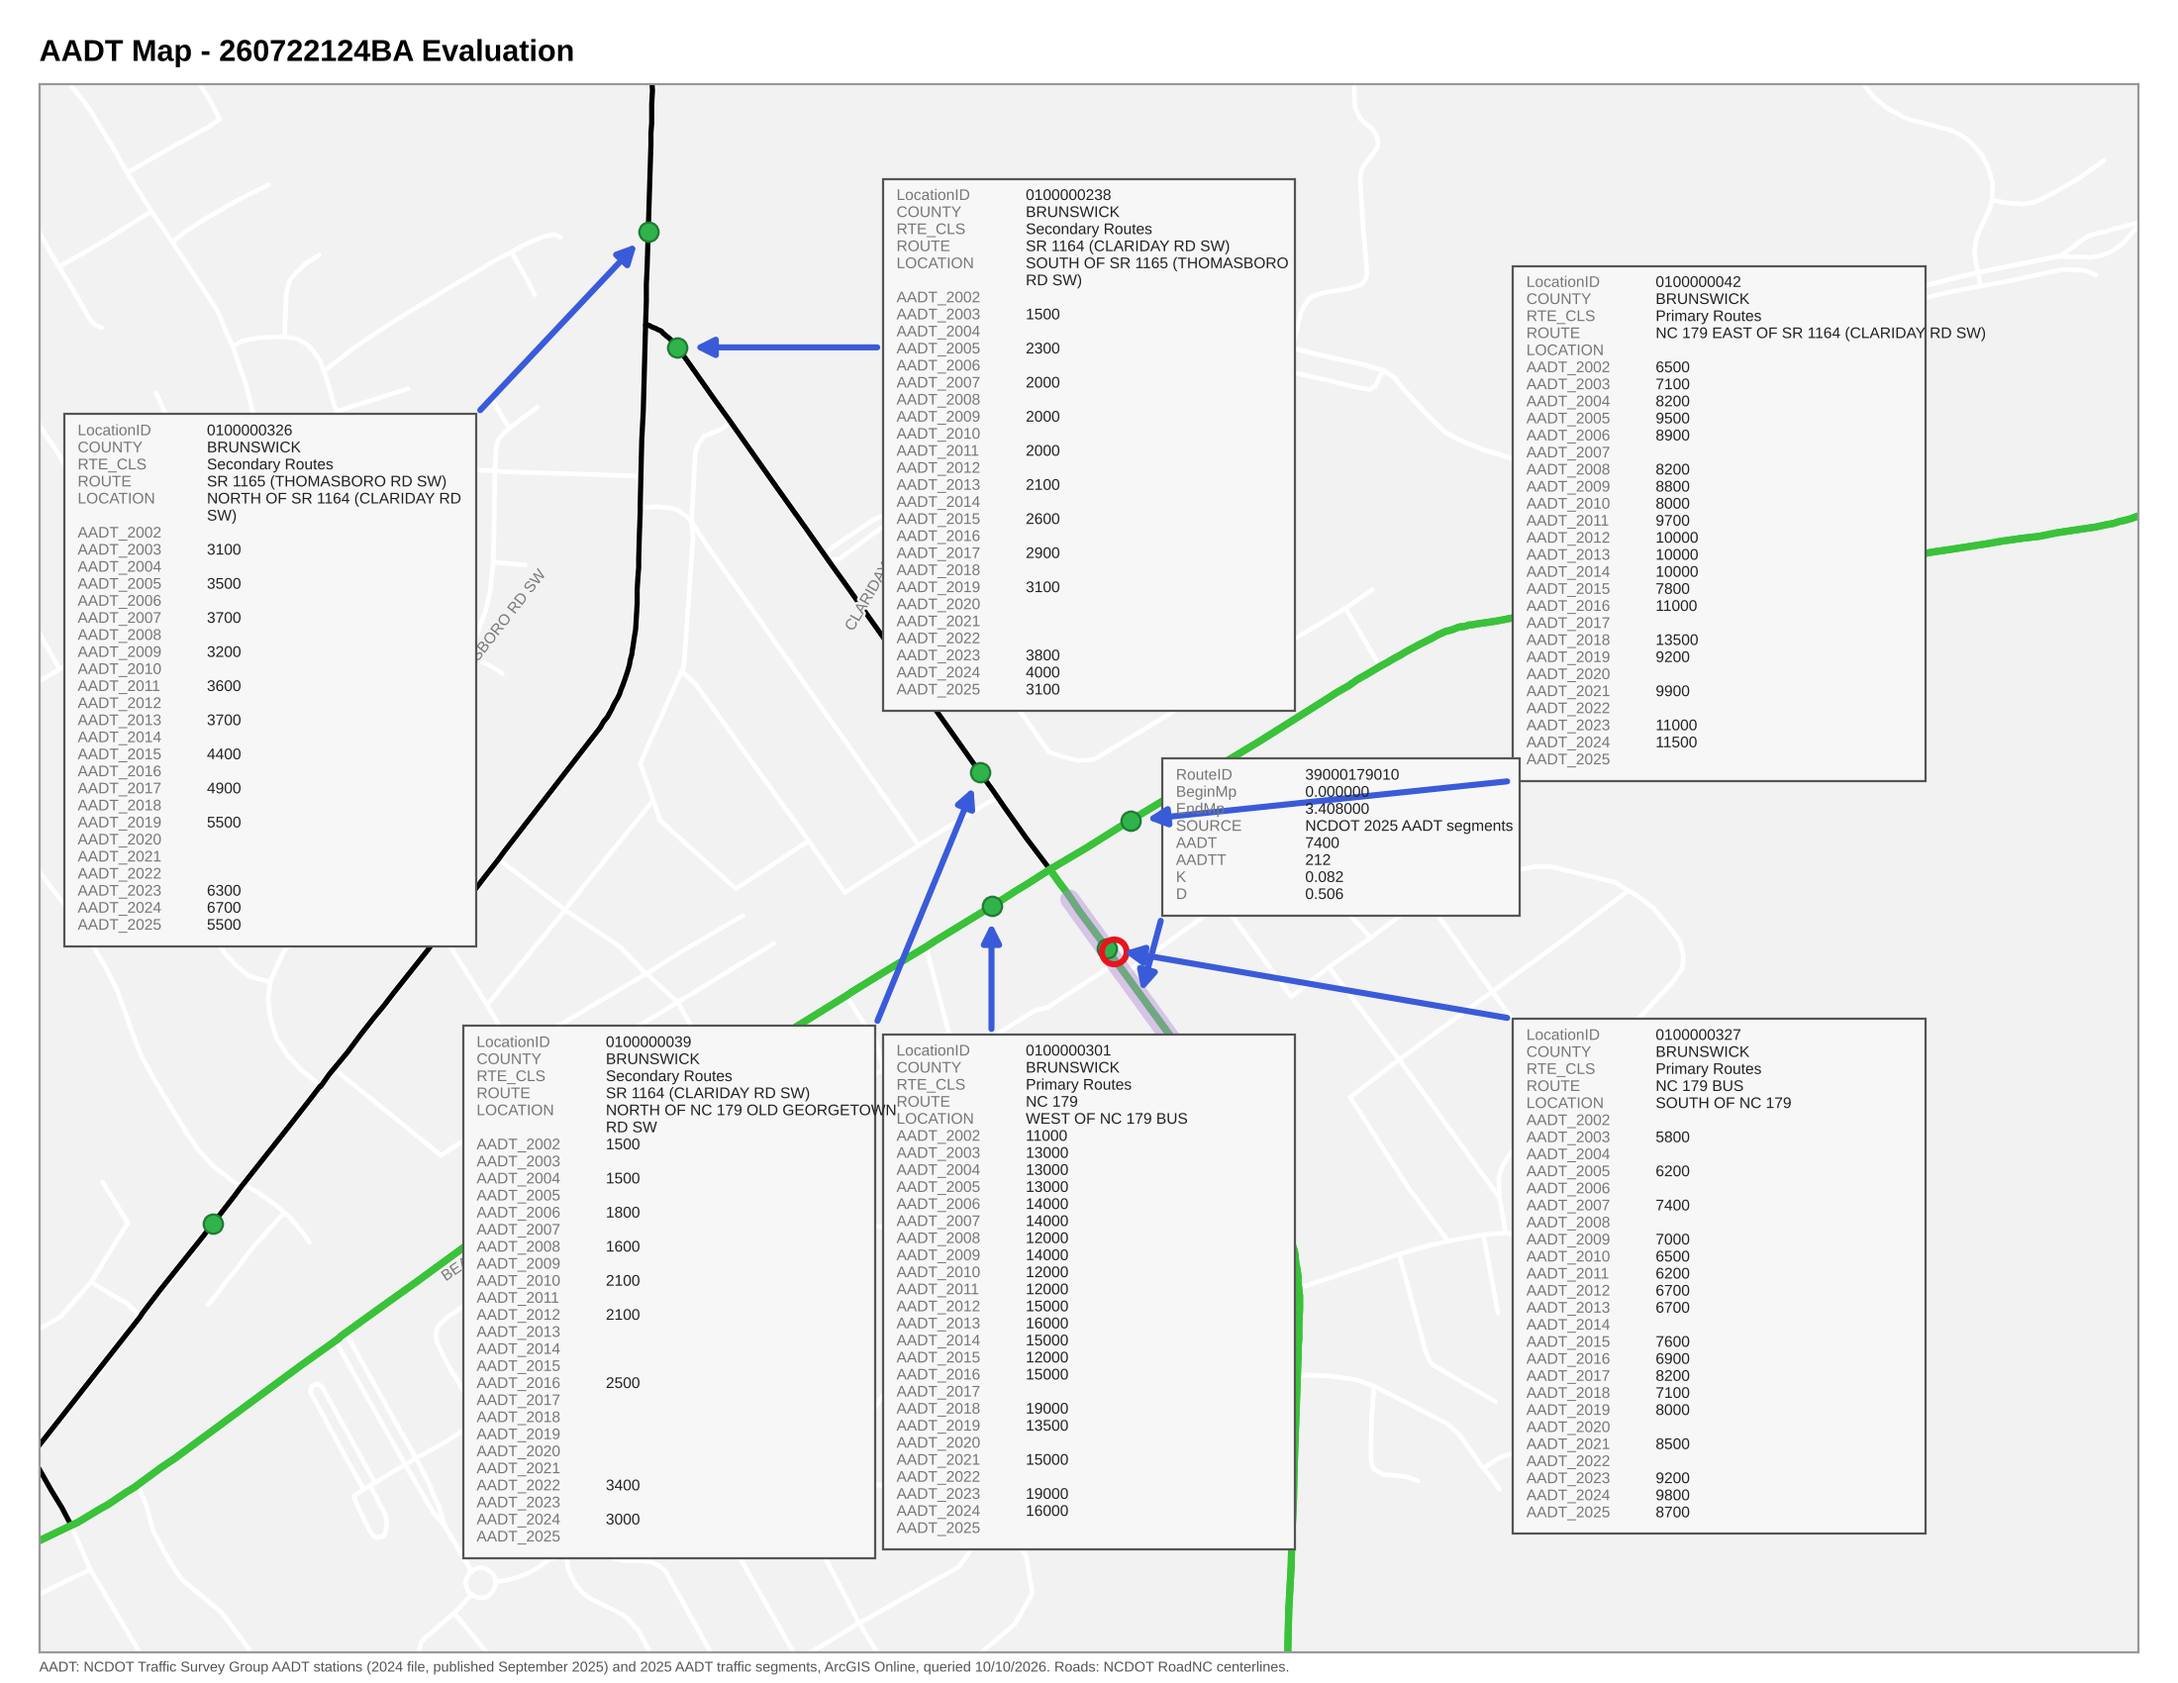
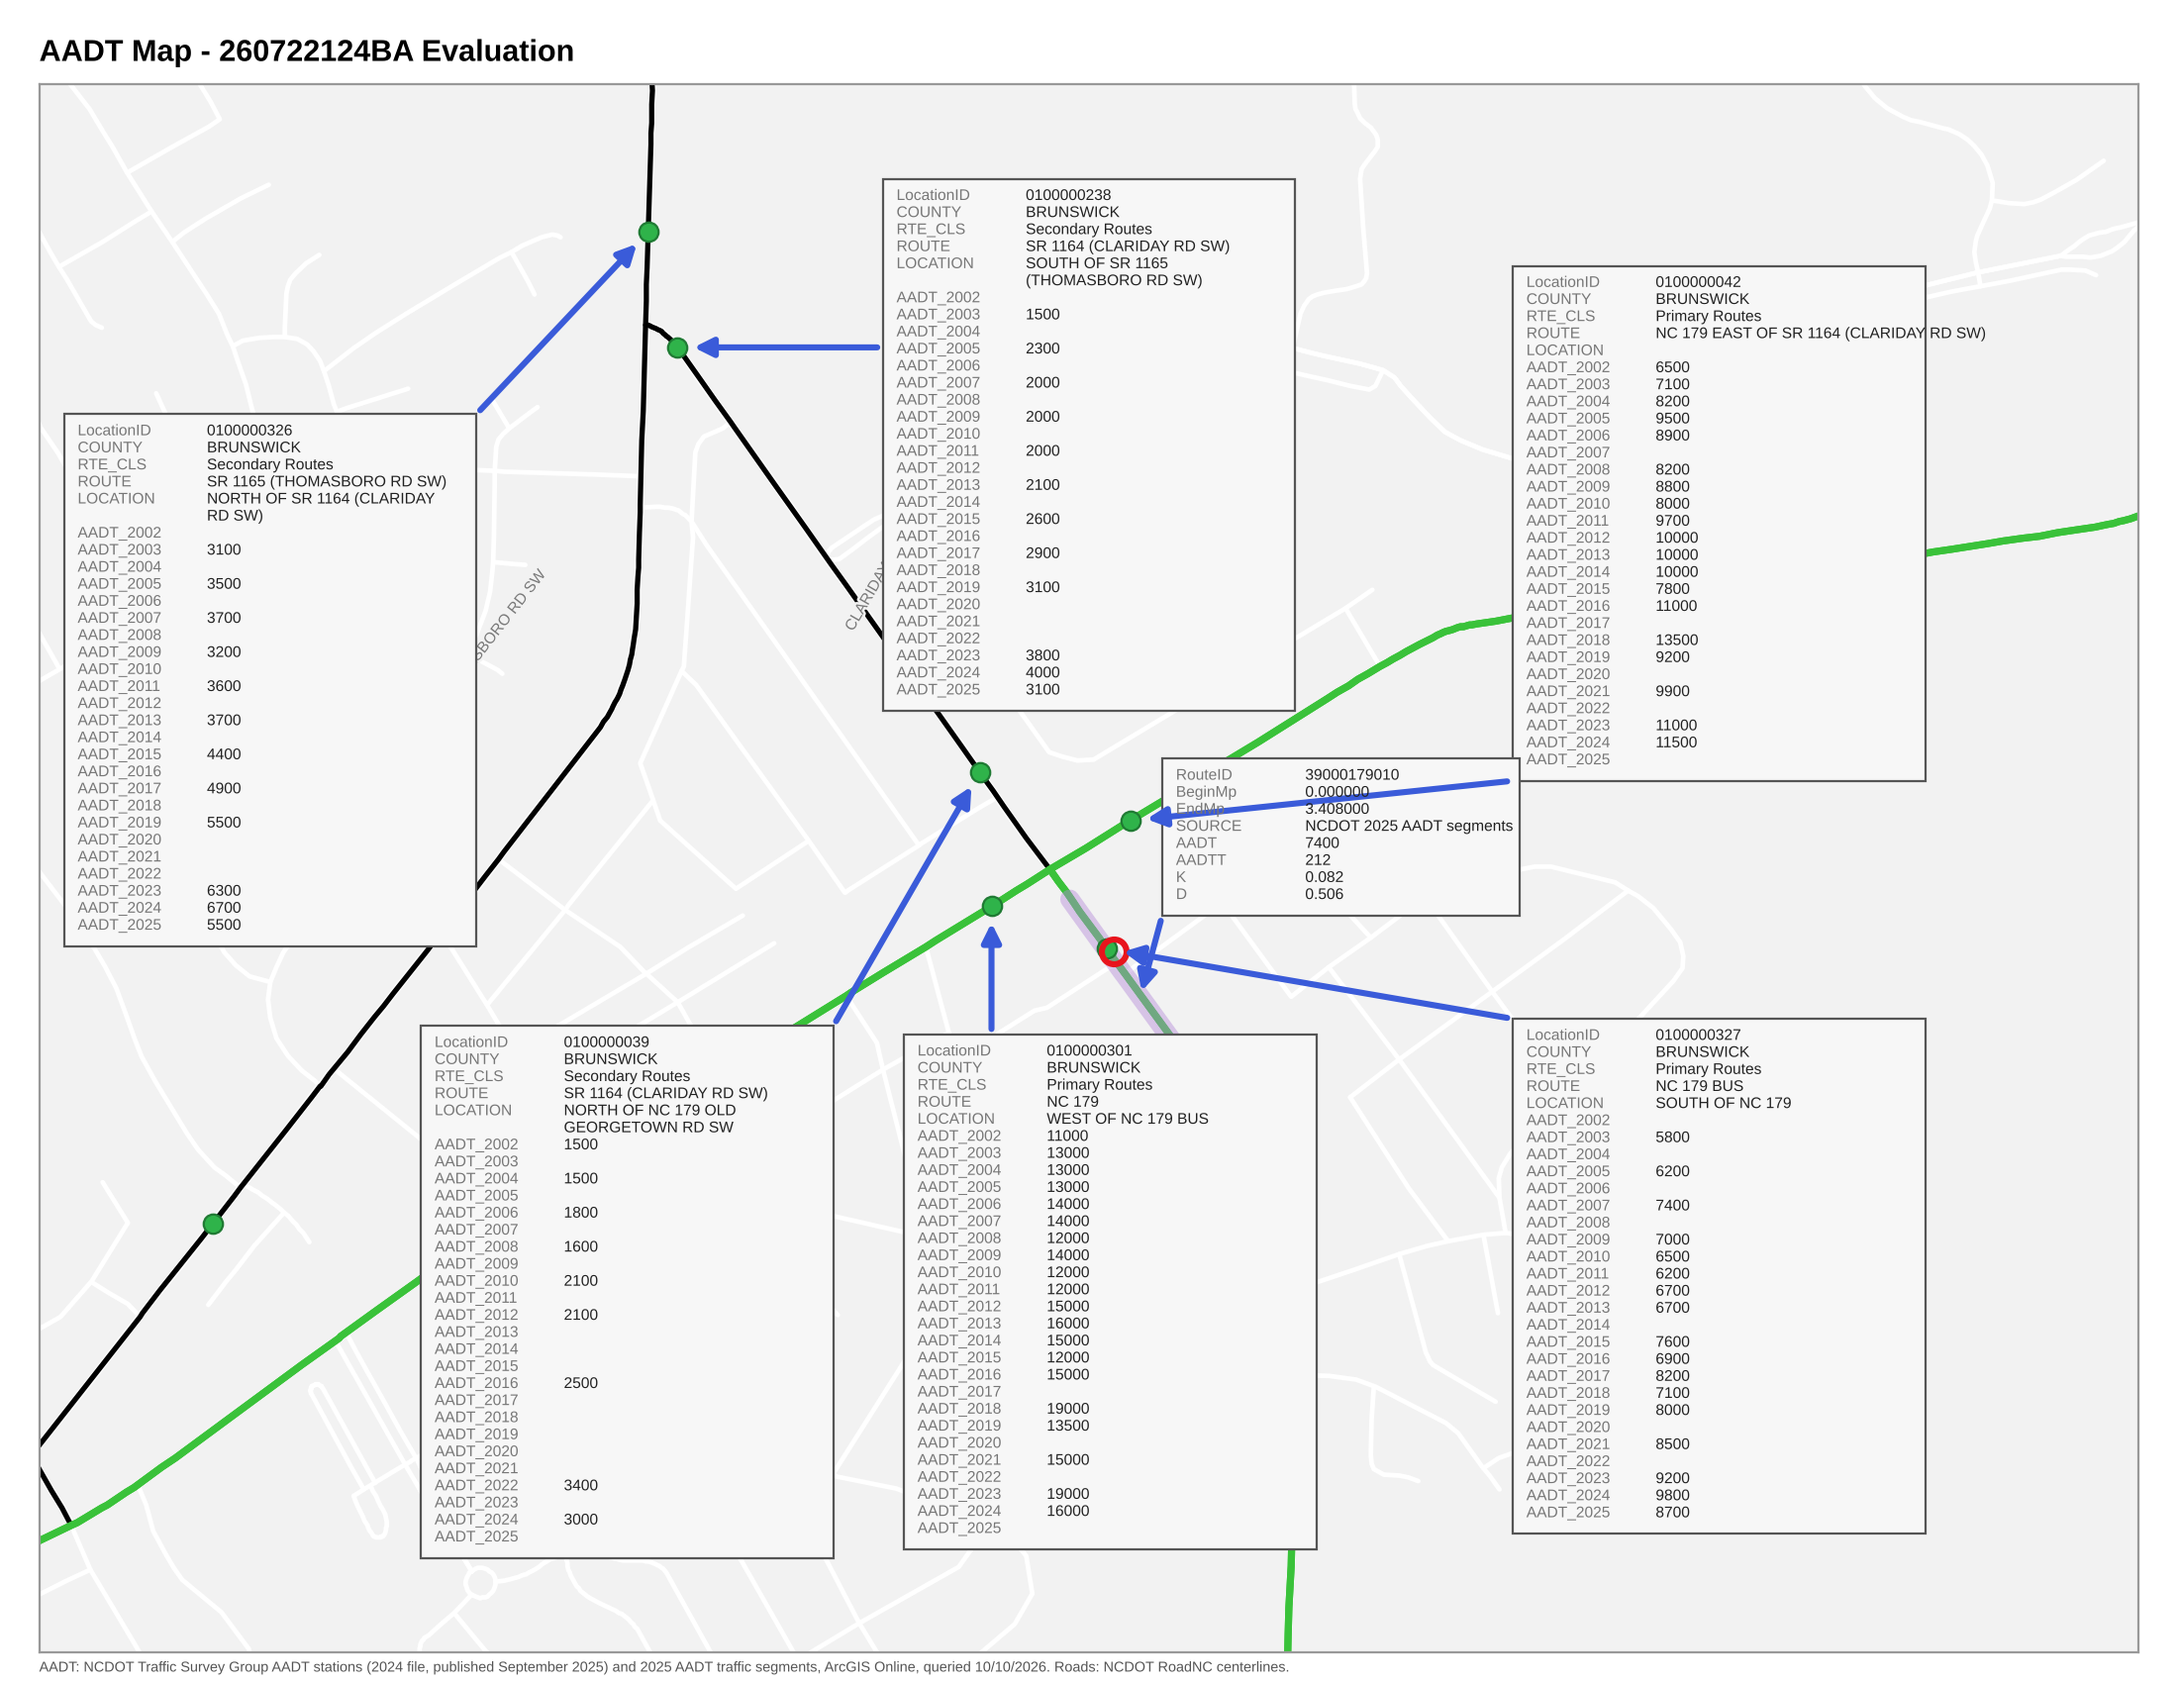
AADT Map: wrap popup locations, separate the bottom popups
Claude-Session: https://claude.ai/code/session_0177tTGTLJNwCJwXdb5CJdxV

diff --git a/fca/figures.py b/fca/figures.py
@@ -916,7 +916,7 @@ def _station_popup(F: Figure, stn, box, county, years):
     route = stn.get("route", "")
     secondary = route.startswith("SR") or route.startswith("4000")
     rt, loc = _split_route_location(stn)
-    loc_lines = textwrap.wrap(loc, 30) or [""]
+    loc_lines = textwrap.wrap(loc, 26) or [""]
     rows = [("LocationID", stn["id"]), ("COUNTY", county.upper()), ("RTE_CLS", "Secondary Routes" if secondary else "Primary Routes"),
             ("ROUTE", rt), ("LOCATION", loc_lines[0])] + [("", ln) for ln in loc_lines[1:]]
     rows += [(f"AADT_{y}", (f"{stn['aadt'][str(y)]}" if str(y) in stn["aadt"] else "")) for y in years]
